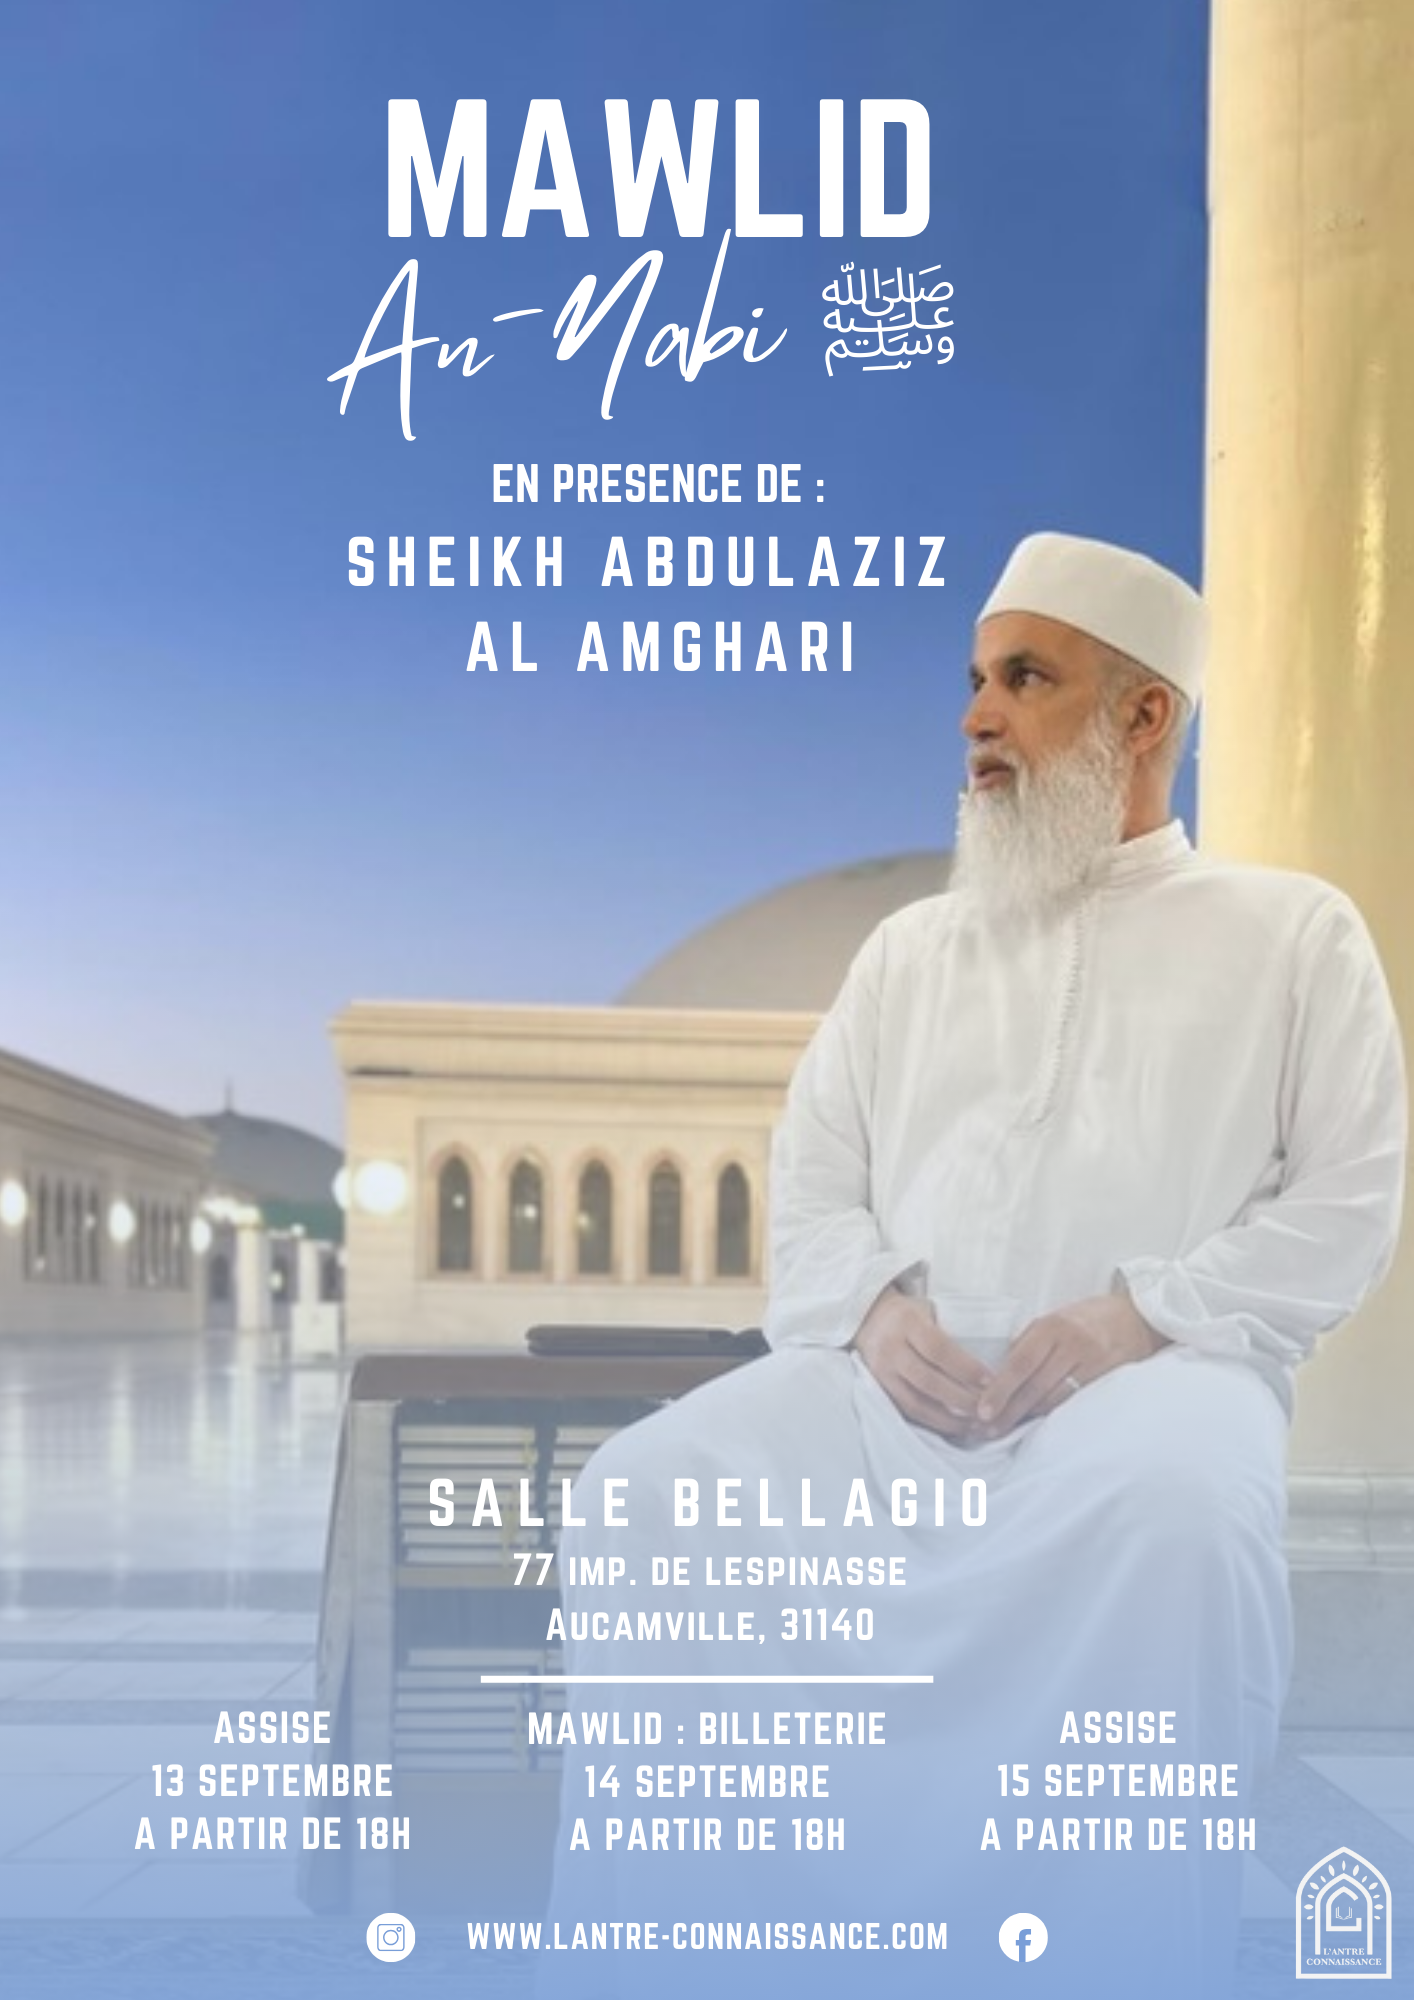
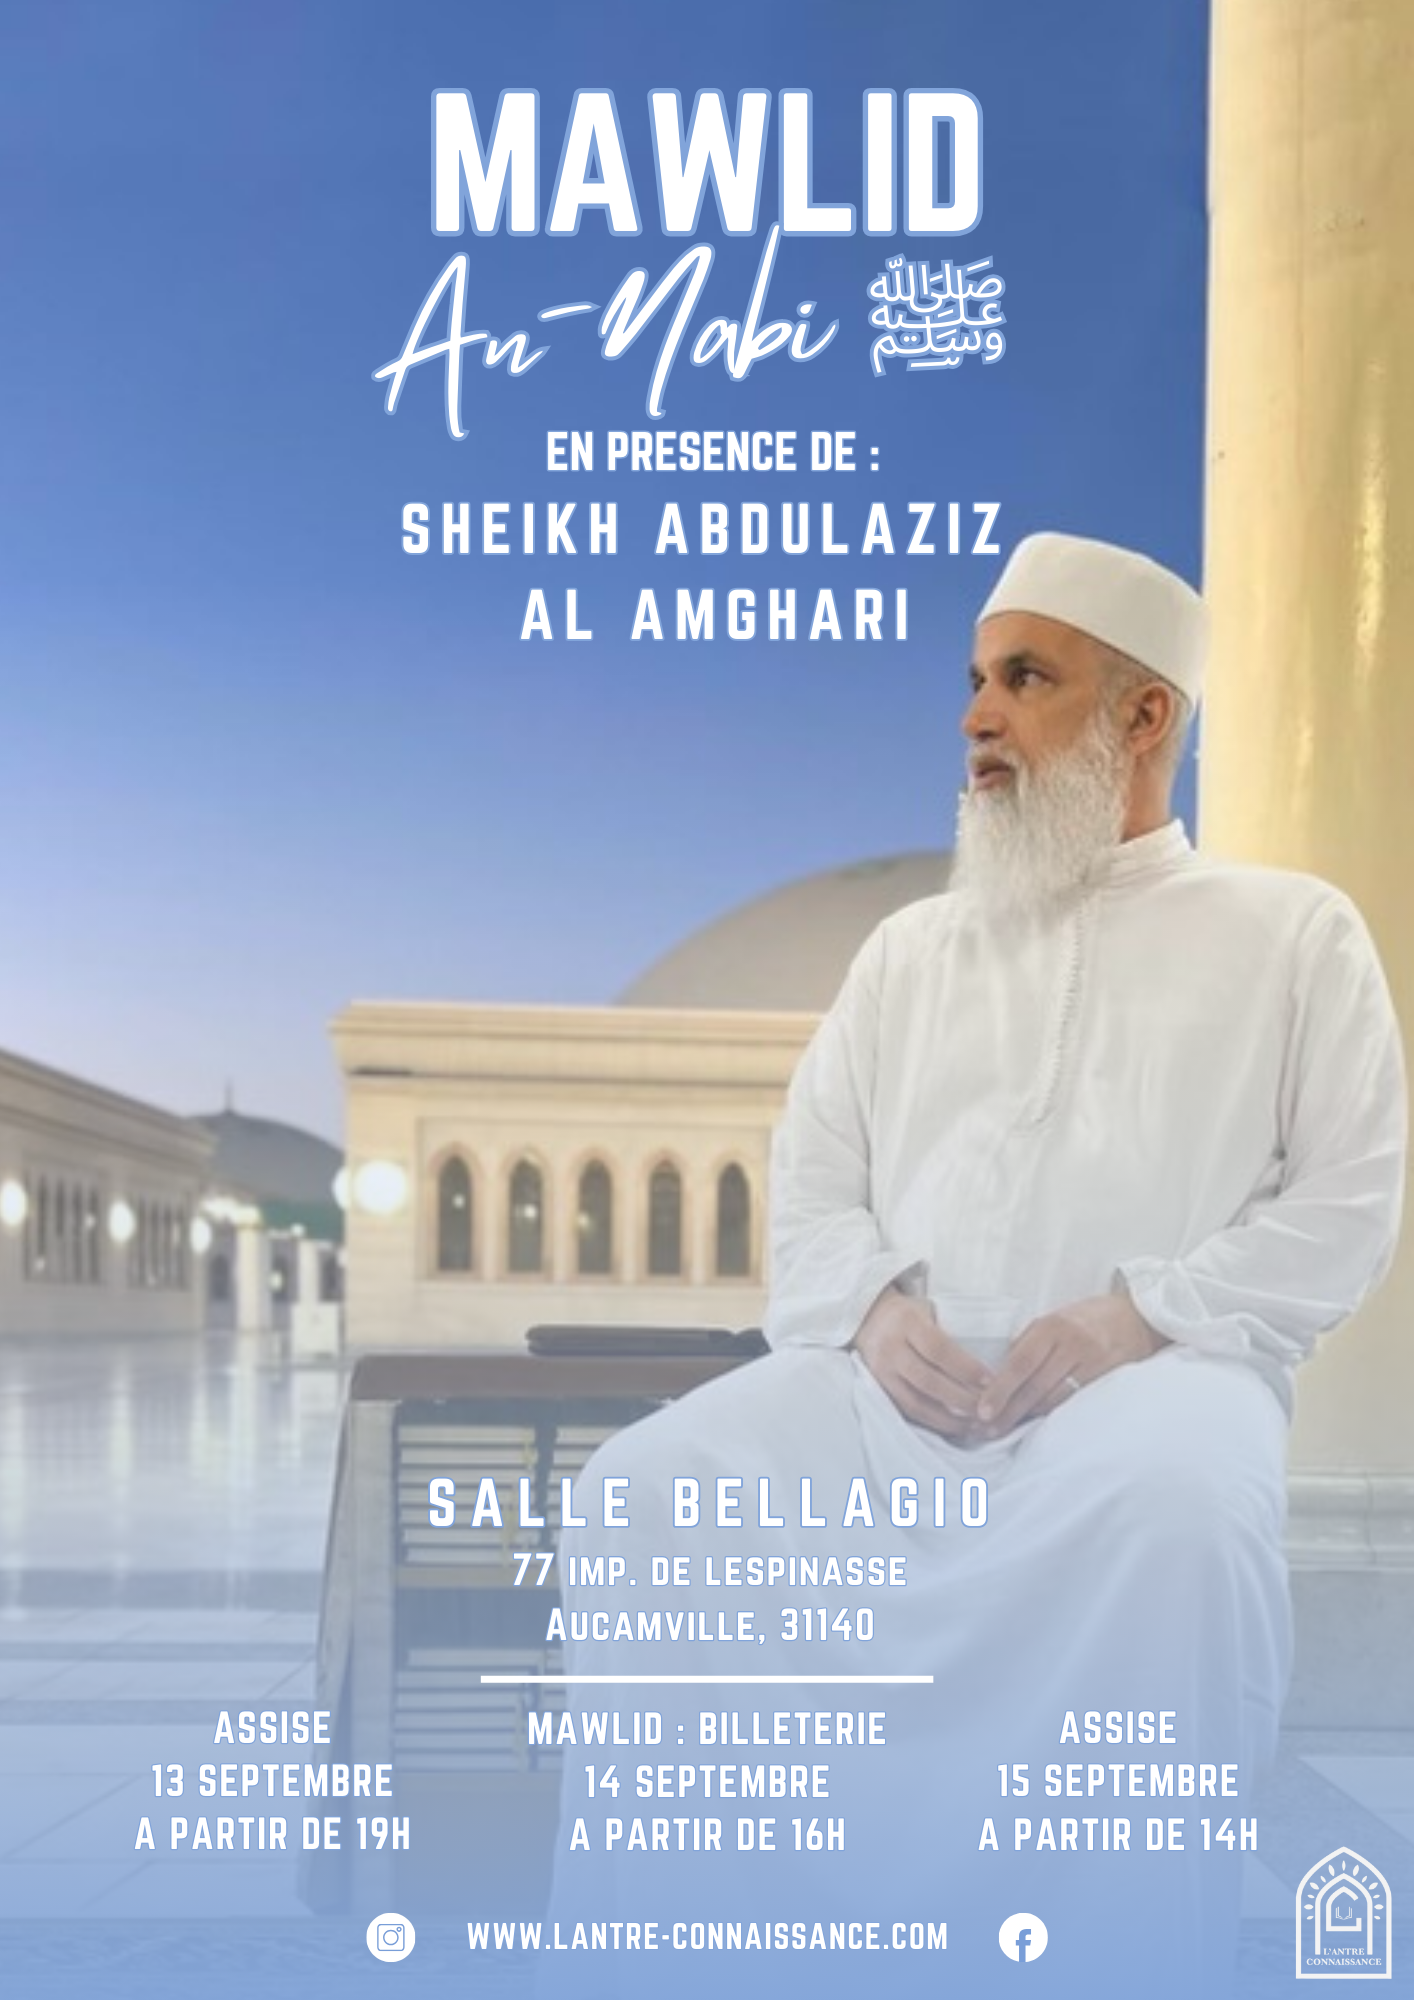
modif flyer et horaire + add button localisation

diff --git a/src/pages/Mawlid/ui/BanniereEvenementMawlid.jsx b/src/pages/Mawlid/ui/BanniereEvenementMawlid.jsx
@@ -7,16 +7,16 @@ function BanniereEvenement()  {
     <section className="w-full relative justify-center items-center px-16 py-20 bg-gray-900 max-md:px-5 max-md:mt-10 max-md:max-w-full">
       <div className="flex flex-col items-center text-white mx-auto max-md:mt-10 max-md:max-w-full">
         <h1 className="text-4xl font-bold text-center max-md:text-2xl max-md:leading-[54px]">
-          Mawlid An Nabi ﷺ en présence de Sheikh Abdulaziz Al Amghari
+          Mawlid An Nabi ﷺ <br /> en présence de <br />Sheikh Abdulaziz Al Amghari
         </h1>
         <div className="mt-10 space-y-4 flex flex-col items-center">
           <div className="flex items-center space-x-4">
           <i className="fa-solid fa-calendar text-2xl"></i>            
            <p className="text-base leading-7">13 au 15 Septembre 2024</p>
           </div>
-            <a className="flex items-center space-x-4" href="https://www.google.com/maps/dir//Salle+de+r%C3%A9ception+%C3%A0+Toulouse+Bellagio,+77+Imp.+de+Lespinasse,+31140+Aucamville/@43.6745151,1.4104733,17z/data=!4m9!4m8!1m0!1m5!1m1!1s0x12aea5448ca44e7d:0x79b09d76468c8c08!2m2!1d1.4130536!2d43.6745112!3e0?entry=ttu">
+            <a className="flex items-center space-x-4 bg-cyan-600 px-4 py-1 rounded-lg" href="https://www.google.com/maps/dir//Salle+de+r%C3%A9ception+%C3%A0+Toulouse+Bellagio,+77+Imp.+de+Lespinasse,+31140+Aucamville/@43.6745151,1.4104733,17z/data=!4m9!4m8!1m0!1m5!1m1!1s0x12aea5448ca44e7d:0x79b09d76468c8c08!2m2!1d1.4130536!2d43.6745112!3e0?entry=ttu">
             <i className="fa-solid fa-location-dot text-2xl"></i> 
-            <p className="text-base leading-7">Salle Bellagio, Toulouse</p>
+            <p className="text-base leading-7 ">Salle Bellagio, Toulouse</p>
             </a>
         </div>
         {/** 

diff --git a/src/pages/Mawlid/ui/DetailsevenementsMawlid.jsx b/src/pages/Mawlid/ui/DetailsevenementsMawlid.jsx
@@ -101,10 +101,10 @@ function DetailsEvenements() {
     <h3 className="font-semibold mb-2">Au programme :</h3>
     <h4><strong>Vendredi 13 :</strong> 19h Assise avec Sheikh Abdulaziz Al Amghari</h4>
 
-    <h4><strong>Samedi 14 :</strong> 19h Mawlid An-Nabi, en présence de Sheikh Abdulaziz Al Amghari</h4>
+    <h4><strong>Samedi 14 :</strong> 16h Mawlid An-Nabi, en présence de Sheikh Abdulaziz Al Amghari</h4>
     <p>(Dars, dhikr, chants, stands librairie et boissons...)</p>
     
-    <h4><strong>Dimanche 15 :</strong> 19h Assise avec Sheikh Abdulaziz Al Amghari</h4>
+    <h4><strong>Dimanche 15 :</strong> 14h Assise avec Sheikh Abdulaziz Al Amghari</h4>
   </div>
 
   <p>Au plaisir de se retrouver</p>
